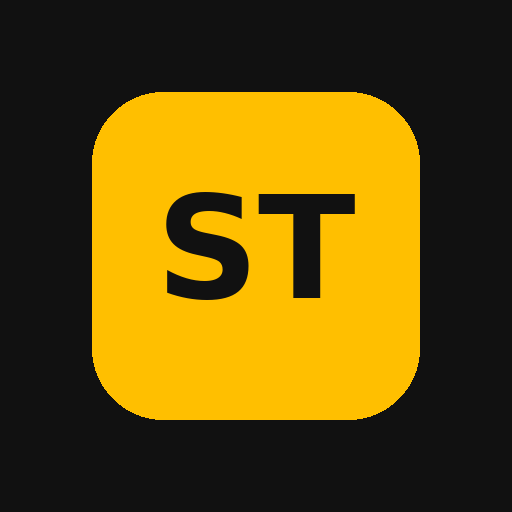
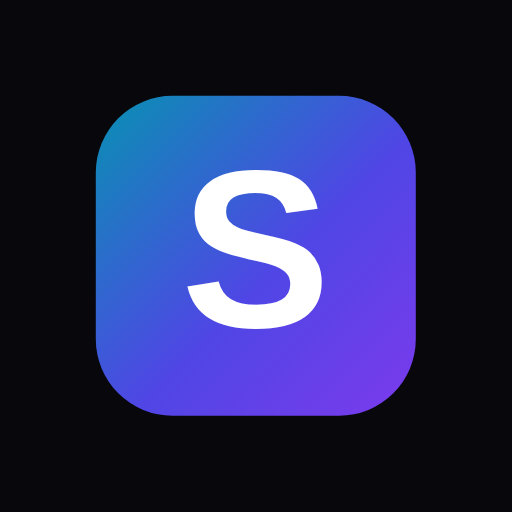
Nový vzhled podle náhledu (styly, ikony, cache v5)

diff --git a/styles.css b/styles.css
@@ -1,143 +1,251 @@
+/* SvezemeTě – tmavý vzhled (výchozí) podle návrhu, světlá varianta přes tlačítko Den.
+   Velké písmo a vysoký kontrast: řidič aplikaci používá v autě. */
 :root {
-  --bg: #fff;
-  --ink: #111;
-  --muted: #222;
-  --line: #111;
-  --amber: #ffbf00;
-  --amber-ink: #111;
-  --card: #fff6d0;
-  --bad: #7a0000;
-  --badbg: #ffd9d9;
-  --ok: #084d18;
-  --okbg: #d7f5df;
-  --wait: #5c3d00;
-  --waitbg: #fff1c2;
-  --soft: #f3f3f3;
-  --header: #111;
-  --headerink: #ffbf00;
-  --ghost: #fff;
-  --shadow: none;
+  --bg: #07070c;
+  --frame: #0b0b13;
+  --panel: #151522;
+  --panel2: #1d1d2e;
+  --line: #2e2e46;
+  --ink: #f5f6fb;
+  --muted: #b7bbd0;
+  --cyan: #22d3ee;
+  --blue: #6ea0ff;
+  --violet: #b69cff;
+  --grad: linear-gradient(90deg, #0891b2 0%, #4f46e5 55%, #7c3aed 100%);
+  --grad-soft: linear-gradient(90deg, #22d3ee, #8b5cf6);
+  --outline: rgba(139, 92, 246, 0.55);
+  --bad: #ffc9c9;
+  --badbg: #3a1016;
+  --badline: #ff6b7a;
+  --ok: #c9ffe0;
+  --okbg: #0c2f22;
+  --okline: #34d399;
+  --wait: #ffe7a6;
+  --waitbg: #33270b;
+  --waitline: #fbbf24;
+  --input: #0f0f1a;
+  --inputline: #3b3b5c;
+  color-scheme: dark;
 }
-body.night {
-  --bg: #000;
-  --ink: #fff8e1;
-  --muted: #ffe7a8;
-  --line: #ffbf00;
-  --amber: #ffbf00;
-  --amber-ink: #111;
-  --card: #1c1500;
-  --bad: #ffd0d0;
-  --badbg: #4a0000;
-  --ok: #c8ffd4;
-  --okbg: #063314;
-  --wait: #ffe08a;
-  --waitbg: #3a2a00;
-  --soft: #141414;
-  --header: #000;
-  --headerink: #ffbf00;
-  --ghost: #000;
+body.light {
+  --bg: #eef0f8;
+  --frame: #f7f8fd;
+  --panel: #ffffff;
+  --panel2: #f0f1f9;
+  --line: #c9cce0;
+  --ink: #0b0b14;
+  --muted: #383c52;
+  --cyan: #0e7490;
+  --blue: #1d4ed8;
+  --violet: #6d28d9;
+  --outline: rgba(109, 40, 217, 0.45);
+  --bad: #7a0010;
+  --badbg: #ffe1e4;
+  --okbg: #dcfce9;
+  --ok: #064e2b;
+  --waitbg: #fff3cd;
+  --wait: #5c3d00;
+  --input: #ffffff;
+  --inputline: #8d91ab;
+  color-scheme: light;
 }
 * { box-sizing: border-box; }
 html, body { margin: 0; padding: 0; }
 body {
-  font-family: "Segoe UI", "Noto Sans", Roboto, sans-serif;
-  font-size: 22px;
-  line-height: 1.35;
+  font-family: "Segoe UI", "Noto Sans", Roboto, system-ui, sans-serif;
+  font-size: 20px;
+  line-height: 1.4;
   color: var(--ink);
-  background: #1a1a1a;
+  background: var(--bg);
   -webkit-text-size-adjust: 100%;
 }
 button, input, select, textarea { font: inherit; color: inherit; touch-action: manipulation; }
-.app { max-width: 560px; margin: 0 auto; min-height: 100vh; background: var(--bg); }
+.app {
+  max-width: 560px; margin: 0 auto; min-height: 100vh; background: var(--frame);
+}
 .app.wide { max-width: 980px; }
+
+/* Hlavička: logo S v přechodu, název, tenká přechodová linka */
 header {
-  display: flex; flex-wrap: wrap; align-items: center; gap: 10px;
-  padding: 12px 16px; background: var(--header); color: var(--headerink);
-  border-bottom: 8px solid var(--amber); position: sticky; top: 0; z-index: 5;
+  display: flex; flex-wrap: nowrap; align-items: center; gap: 8px;
+  padding: 14px 12px 10px 16px; background: var(--frame);
 }
-.brand { display: flex; gap: 12px; align-items: center; flex: 1 1 220px; min-width: 0; }
+.brand { display: flex; gap: 10px; align-items: center; flex: 1 1 auto; min-width: 0; }
 .mark {
-  width: 56px; height: 56px; flex: none; border-radius: 14px; background: var(--amber); color: #111;
-  display: grid; place-items: center; font-weight: 900; font-size: 26px;
+  width: 48px; height: 48px; flex: none; border-radius: 14px; background: var(--grad); color: #fff;
+  display: grid; place-items: center; font-weight: 900; font-size: 28px; text-shadow: 0 1px 2px rgba(0,0,0,.35);
 }
-.nm { font-weight: 900; font-size: 28px; line-height: 1; letter-spacing: -0.4px; }
-.sub { color: #fff; font-size: 18px; margin-top: 4px; }
-body.night .sub { color: var(--amber); }
-.tools { display: flex; gap: 8px; flex: 1 1 160px; justify-content: flex-end; }
+.nm { font-weight: 900; font-size: 24px; line-height: 1; letter-spacing: -0.4px; color: var(--ink); white-space: nowrap; overflow: hidden; text-overflow: ellipsis; }
+.tools { display: flex; gap: 6px; justify-content: flex-end; flex: none; }
 .tool {
-  background: transparent; color: var(--headerink); border: 3px solid var(--amber);
-  border-radius: 12px; min-height: 52px; padding: 8px 14px; font-weight: 800; font-size: 20px;
+  background: var(--panel); color: var(--ink); border: 2px solid var(--line);
+  border-radius: 14px; min-height: 56px; min-width: 56px; padding: 6px 9px; font-weight: 800; font-size: 16px; cursor: pointer;
 }
-main { padding: 16px 16px 40px; }
-.gate { min-height: 100vh; margin: 0; display: grid; place-items: center; padding: 32px 20px; background: #111; color: #ffbf00; }
+@media (max-width: 360px) { .nm { font-size: 22px; } .mark { width: 42px; height: 42px; font-size: 24px; } }
+.rule { height: 3px; margin: 0 18px; border-radius: 3px; background: var(--grad-soft); }
+main { padding: 14px 18px 48px; }
+.mode {
+  margin: 6px 0 2px; font-size: 15px; font-weight: 800; letter-spacing: 1.6px; text-transform: uppercase; color: var(--muted);
+}
+.gate { min-height: 100vh; margin: 0; display: grid; place-items: center; padding: 32px 20px; background: var(--bg); color: var(--ink); }
 .gate p { margin: 0; font-size: 34px; font-weight: 900; line-height: 1.25; text-align: center; }
-h1 { font-size: 34px; line-height: 1.15; margin: 8px 0 12px; }
-h2 { font-size: 26px; margin: 22px 0 8px; }
+h1 { font-size: 36px; line-height: 1.12; margin: 4px 0 16px; font-weight: 900; letter-spacing: -0.5px; }
+h2 { font-size: 24px; margin: 24px 0 10px; font-weight: 850; }
 p { margin: 8px 0; }
-.banner, .alert { border: 3px solid var(--line); border-radius: 14px; padding: 12px 14px; margin: 12px 16px; font-weight: 700; }
-.banner { background: var(--amber); color: #111; margin-bottom: 0; }
-.alert { margin: 12px 0; }
-.alert.bad { background: var(--badbg); color: var(--bad); }
-.alert.ok { background: var(--okbg); color: var(--ok); }
-.alert.wait { background: var(--waitbg); color: var(--wait); }
+
+.banner { margin: 12px 18px 0; padding: 12px 14px; border-radius: 14px; font-weight: 700; font-size: 18px;
+  background: var(--waitbg); color: var(--wait); border: 2px solid var(--waitline); }
+.alert { border-radius: 14px; padding: 14px 16px; margin: 12px 0; font-weight: 700; border: 2px solid; border-left-width: 6px; }
+.alert.bad { background: var(--badbg); color: var(--bad); border-color: var(--badline); }
+.alert.ok { background: var(--okbg); color: var(--ok); border-color: var(--okline); }
+.alert.wait { background: var(--waitbg); color: var(--wait); border-color: var(--waitline); }
+
+/* Tlačítka */
 .btn, .card-btn, .key {
-  display: flex; align-items: center; justify-content: center; text-align: center;
-  width: 100%; min-height: 64px; margin: 10px 0; padding: 14px 16px;
-  border-radius: 16px; border: 3px solid var(--line); background: var(--amber); color: var(--amber-ink);
-  font-weight: 800; font-size: 24px; line-height: 1.2; cursor: pointer;
+  display: flex; align-items: center; justify-content: center; text-align: center; flex-direction: column;
+  width: 100%; min-height: 60px; margin: 12px 0; padding: 14px 18px;
+  border-radius: 18px; border: 0; background: var(--grad); color: #fff;
+  font-weight: 800; font-size: 22px; line-height: 1.2; cursor: pointer;
+  text-shadow: 0 1px 2px rgba(0, 0, 0, 0.35);
+  box-shadow: 0 6px 22px rgba(79, 70, 229, 0.28);
 }
-.btn.xl { min-height: 84px; font-size: 28px; }
-.btn.dark, .btn.stop { background: #111; color: #fff; border-color: #111; }
-body.night .btn.dark, body.night .btn.stop { background: #fff; color: #111; border-color: #fff; }
-.btn.go { background: #0b6b2a; color: #fff; border-color: #063; }
-.btn.ghost { background: var(--ghost); color: var(--ink); }
-.btn:disabled { background: #d0d0d0; color: #222; border-color: #555; cursor: not-allowed; }
-.card-btn { display: block; text-align: left; background: var(--card); font-size: 22px; }
-.card-btn strong, .card-btn span { display: block; }
-label { display: block; font-weight: 800; margin-top: 14px; }
+.btn.xl { min-height: 72px; font-size: 24px; }
+.btn.ghost {
+  background: transparent; color: var(--ink); border: 2px solid var(--line); box-shadow: none; text-shadow: none;
+}
+.btn.dark { background: var(--panel2); color: var(--ink); border: 2px solid var(--violet); box-shadow: none; text-shadow: none; }
+.btn.stop { background: #b4232f; color: #fff; box-shadow: none; }
+.btn.go { background: linear-gradient(90deg, #047857, #0891b2); }
+.btn:disabled { background: var(--panel2); color: var(--muted); border: 2px dashed var(--line); box-shadow: none; text-shadow: none; cursor: not-allowed; }
+.link { background: none; border: 0; padding: 8px 4px; min-height: 48px; color: var(--cyan); font-weight: 800; text-decoration: underline; cursor: pointer; }
+
+/* Datové karty s barevným proužkem vlevo */
+.card, .card-btn {
+  position: relative; display: block; text-align: left; margin: 12px 0; padding: 14px 16px 14px 22px;
+  background: var(--panel); color: var(--ink); border: 1px solid var(--line); border-radius: 18px;
+  box-shadow: none; text-shadow: none; overflow: hidden;
+}
+.card::before, .card-btn::before {
+  content: ""; position: absolute; left: 0; top: 0; bottom: 0; width: 6px; background: var(--cyan);
+}
+.c2::before { background: var(--blue); }
+.c3::before { background: var(--violet); }
+.lbl {
+  display: flex; justify-content: space-between; gap: 8px; font-size: 15px; font-weight: 800;
+  letter-spacing: 1.3px; text-transform: uppercase; color: var(--muted);
+}
+.lbl em { font-style: normal; color: var(--cyan); }
+.val { display: block; margin-top: 4px; font-size: 26px; font-weight: 900; line-height: 1.2; color: var(--cyan); word-break: break-word; }
+.c2 .val { color: var(--blue); }
+.c3 .val { color: var(--violet); }
+.val small { display: block; margin-top: 4px; font-size: 18px; font-weight: 700; color: var(--muted); }
+.card-btn { cursor: pointer; font-size: 20px; font-weight: 600; }
+.card-btn strong { display: block; font-size: 22px; font-weight: 850; margin: 2px 0; }
+.card-btn > span { display: block; }
+.accent { color: var(--cyan); font-weight: 800; }
+.c2 .accent { color: var(--blue); }
+.c3 .accent { color: var(--violet); }
+.card-btn .badge { margin-bottom: 6px; }
+.incard input { margin-top: 8px; }
+.incard .arrow { display: block; text-align: center; color: var(--muted); font-weight: 900; margin: 2px 0; }
+.formcard label { margin-top: 10px; }
+.sumgrid { display: grid; grid-template-columns: 1fr 1fr; gap: 0 10px; }
+.sumgrid .card { margin: 6px 0; }
+.sumgrid .val { font-size: 22px; }
+
+/* Formuláře */
+label { display: block; font-weight: 800; margin-top: 14px; font-size: 18px; }
 input, select, textarea {
-  width: 100%; margin-top: 6px; min-height: 60px; padding: 12px;
-  border: 3px solid var(--line); border-radius: 12px; background: var(--bg);
+  width: 100%; margin-top: 6px; min-height: 60px; padding: 12px 14px; font-size: 21px;
+  border: 2px solid var(--inputline); border-radius: 14px; background: var(--input); color: var(--ink);
 }
-.price-in { font-size: 40px; font-weight: 900; text-align: center; }
-.price { font-size: 64px; font-weight: 900; text-align: center; letter-spacing: -1px; margin: 8px 0; font-variant-numeric: tabular-nums; }
-.price.sm { font-size: 48px; }
-.route { font-size: 26px; font-weight: 800; text-align: center; }
-.routebox { display: grid; gap: 8px; margin: 12px 0; }
-.routebox div { background: var(--card); border: 3px solid var(--line); border-radius: 14px; padding: 10px 12px; }
-.routebox span { display: block; font-size: 18px; font-weight: 800; }
-.rz { display: inline-block; font-size: 36px; font-weight: 900; letter-spacing: 1px; background: var(--amber); color: #111; border: 4px solid #111; border-radius: 12px; padding: 4px 12px; }
-.kicker { text-align: center; font-weight: 800; margin-bottom: 0; }
+input::placeholder { color: var(--muted); opacity: 0.75; }
+input:focus { border-color: var(--cyan); outline: none; box-shadow: 0 0 0 3px rgba(34, 211, 238, 0.35); }
+input.light-in { background: #fff; color: #0b0b14; border-color: #fff; }
+.price-in { font-size: 40px; font-weight: 900; text-align: center; color: var(--blue); }
+.price { font-size: 68px; font-weight: 900; text-align: center; letter-spacing: -1px; margin: 4px 0; font-variant-numeric: tabular-nums;
+  color: var(--cyan); line-height: 1.05; }
+.price.sm { font-size: 52px; }
+.pricemeta, .termslink { text-align: center; color: var(--muted); font-weight: 700; }
+.pricemeta span, .termslink span { color: var(--line); margin: 0 6px; }
+.termslink { text-align: left; color: var(--cyan); }
+.route { font-size: 26px; font-weight: 850; text-align: center; margin: 6px 0; }
+.rz { display: inline-block; font-size: 24px; font-weight: 900; letter-spacing: 1px; background: #fff; color: #111;
+  border: 3px solid #1d4ed8; border-radius: 10px; padding: 2px 10px; }
 .hello { font-size: 26px; font-weight: 800; }
-.hint, .old { color: var(--muted); font-size: 20px; }
-.empty { background: var(--soft); border-radius: 14px; padding: 14px; }
-.badge { display: inline-block; padding: 6px 12px; border-radius: 999px; font-weight: 800; border: 3px solid var(--line); background: var(--soft); }
-.badge.ok { background: var(--okbg); color: var(--ok); }
-.badge.wait { background: var(--waitbg); color: var(--wait); }
-.badge.go { background: #d9ffe4; color: #064; }
-body.night .badge.go { background: #063; color: #d9ffe4; }
-.consent { display: flex; gap: 14px; align-items: flex-start; border: 3px solid var(--line); border-radius: 14px; padding: 14px; margin-top: 12px; background: var(--card); font-weight: 800; }
-.consent input { width: 40px; height: 40px; min-height: 40px; margin: 2px 0 0; flex: none; }
-.steps { display: flex; gap: 8px; margin-bottom: 8px; }
-.steps span { flex: 1; text-align: center; border: 3px solid var(--line); border-radius: 12px; padding: 6px 0; font-weight: 800; background: var(--soft); }
-.steps span.on { background: var(--amber); color: #111; }
-dl div { display: grid; grid-template-columns: 1fr; gap: 2px; padding: 8px 0; border-bottom: 2px solid var(--line); }
-dt { font-size: 18px; font-weight: 800; }
-dd { margin: 0; font-size: 24px; font-weight: 800; }
-.dots { display: flex; gap: 14px; justify-content: center; margin: 16px 0; }
-.dots span { width: 22px; height: 22px; border-radius: 50%; border: 3px solid var(--line); background: transparent; }
-.dots span.on { background: var(--amber); }
-.pad { display: grid; grid-template-columns: repeat(3, 1fr); gap: 10px; }
-.key { margin: 0; min-height: 72px; font-size: 32px; background: var(--soft); }
-.terms p { margin: 0 0 8px; }
-.terms h2 { margin-top: 16px; }
-.clock { font-size: 42px; font-weight: 900; text-align: center; font-variant-numeric: tabular-nums; }
+.hint, .old { color: var(--muted); font-size: 19px; }
+.old { font-weight: 700; }
+.empty { background: var(--panel); border: 1px dashed var(--line); border-radius: 16px; padding: 16px; color: var(--muted); }
+.badge { display: inline-block; padding: 6px 14px; border-radius: 999px; font-weight: 800; font-size: 16px; letter-spacing: 1px;
+  text-transform: uppercase; border: 2px solid var(--line); background: var(--panel2); color: var(--ink); }
+.badge.ok { background: var(--okbg); color: var(--ok); border-color: var(--okline); }
+.badge.wait { background: var(--waitbg); color: var(--wait); border-color: var(--waitline); }
+.badge.go { background: var(--okbg); color: var(--ok); border-color: var(--okline); }
+
+/* Informační box (dopravce, řidič, vozidlo) */
+.infobox { background: var(--panel); border: 1px solid var(--line); border-radius: 18px; padding: 6px 16px; margin: 14px 0; }
+.infobox > div { display: grid; grid-template-columns: 1fr; gap: 2px; padding: 10px 0; border-bottom: 1px solid var(--line); }
+.infobox > div:last-child { border-bottom: 0; }
+.infobox span, .infobox dt { font-size: 15px; font-weight: 800; letter-spacing: 1.2px; text-transform: uppercase; color: var(--muted); }
+.infobox strong, .infobox dd { margin: 0; font-size: 22px; font-weight: 800; }
+.infobox.mail { border-left: 6px solid var(--cyan); }
+.infobox.mail.bad { border-left-color: var(--badline); }
+.infobox.mail.wait { border-left-color: var(--waitline); }
+.infobox.mail strong { color: var(--cyan); word-break: break-all; }
+.infobox.mail p { margin: 0 0 10px; font-size: 18px; color: var(--muted); }
+dl { margin: 0; }
+
+/* Souhlasy */
+.consent { display: flex; gap: 14px; align-items: flex-start; border: 2px solid var(--line); border-radius: 16px; padding: 14px;
+  margin-top: 12px; background: var(--panel); font-weight: 750; font-size: 19px; cursor: pointer; }
+.consent input { width: 34px; height: 34px; min-height: 34px; margin: 2px 0 0; flex: none; accent-color: #7c3aed; }
+
+/* Volba platby */
+.paylist { display: grid; gap: 10px; margin: 8px 0; }
+.paygrid { display: grid; grid-template-columns: 1fr 1fr; gap: 10px; margin: 8px 0; }
+.payopt {
+  display: flex; align-items: center; gap: 14px; width: 100%; min-height: 64px; padding: 14px 16px; text-align: left;
+  background: var(--panel); color: var(--ink); border: 2px solid var(--line); border-radius: 16px; cursor: pointer;
+}
+.payopt strong { display: block; font-size: 21px; font-weight: 850; }
+.payopt small { display: block; font-size: 17px; color: var(--muted); font-weight: 600; margin-top: 2px; }
+.payopt .dot { width: 26px; height: 26px; flex: none; border-radius: 50%; border: 3px solid var(--muted); }
+.payopt.on { border-color: var(--cyan); box-shadow: 0 0 0 2px var(--cyan) inset; }
+.payopt.on .dot { border-color: var(--cyan); background: radial-gradient(circle, var(--cyan) 45%, transparent 50%); }
+.payopt.sm { justify-content: flex-start; min-height: 68px; }
+
+/* Rozbalovací doklady v registraci */
+.doc { border: 1px solid var(--line); border-radius: 16px; background: var(--panel); margin: 10px 0; }
+.doc summary { list-style: none; display: flex; justify-content: space-between; align-items: center; gap: 10px;
+  min-height: 60px; padding: 12px 16px; cursor: pointer; font-weight: 850; font-size: 20px; color: var(--violet); }
+.doc summary::-webkit-details-marker { display: none; }
+.doc summary b { font-size: 30px; line-height: 1; transition: transform .15s; }
+.doc[open] summary b { transform: rotate(45deg); }
+.docin { padding: 0 16px 14px; }
+
+/* Kroky registrace */
+.steps { display: grid; grid-template-columns: repeat(4, 1fr); gap: 8px; margin: 6px 0 12px; }
+.steps span { height: 8px; border-radius: 8px; background: var(--line); }
+.steps span.on { background: var(--grad-soft); }
+
+/* PIN */
+.dots { display: flex; gap: 16px; justify-content: center; margin: 18px 0; }
+.dots span { width: 24px; height: 24px; border-radius: 50%; border: 3px solid var(--violet); background: transparent; }
+.dots span.on { background: var(--grad-soft); border-color: transparent; }
+.pad { display: grid; grid-template-columns: repeat(3, 1fr); gap: 12px; }
+.key { margin: 0; min-height: 76px; font-size: 34px; background: var(--panel); color: var(--ink); border: 2px solid var(--line); box-shadow: none; text-shadow: none; }
+
+.terms p { margin: 0 0 8px; color: var(--ink); }
+.terms h2 { margin-top: 16px; font-size: 21px; }
+.clock { font-size: 30px !important; font-weight: 900 !important; color: var(--ink) !important; font-variant-numeric: tabular-nums; }
 .row2 { display: grid; grid-template-columns: 1fr 1fr; gap: 10px; }
-.sum { background: var(--card); border: 3px solid var(--line); border-radius: 14px; padding: 10px 12px; margin: 8px 0; }
-.eet { border: 3px dashed var(--line); border-radius: 14px; padding: 12px; margin-top: 12px; }
-.eet strong { font-size: 28px; letter-spacing: 1px; }
-:focus-visible { outline: 4px solid var(--amber); outline-offset: 2px; }
-@media (max-width: 600px) {
-  body { background: var(--bg); }
-  .app { max-width: none; }
+.row2 .btn { font-size: 19px; }
+.eet { border: 2px dashed var(--violet); border-radius: 16px; padding: 12px 14px; margin-top: 12px; }
+.eet strong { font-size: 26px; letter-spacing: 1px; color: var(--violet); }
+:focus-visible { outline: 4px solid var(--cyan); outline-offset: 2px; }
+
+/* Na velké obrazovce rámeček telefonu s fialovou linkou */
+@media (min-width: 601px) {
+  .app { margin: 24px auto; min-height: calc(100vh - 48px); border: 2px solid var(--outline); border-radius: 36px; overflow: hidden; }
+  header { border-radius: 36px 36px 0 0; }
 }

diff --git a/index.html b/index.html
@@ -3,7 +3,7 @@
 <head>
   <meta charset="utf-8">
   <meta name="viewport" content="width=device-width, initial-scale=1, viewport-fit=cover">
-  <meta name="theme-color" content="#111111">
+  <meta name="theme-color" content="#07070c">
   <meta name="description" content="SvezemeTě – elektronická objednávka taxislužby pro samostatné řidiče.">
   <meta name="apple-mobile-web-app-capable" content="yes">
   <meta name="apple-mobile-web-app-title" content="SvezemeTě">

diff --git a/sw.js b/sw.js
@@ -1,5 +1,5 @@
 /* Service worker. Všechny cesty jsou relativní ke skriptu, takže platí i v podsložce (např. /svezemete/). */
-const CACHE = "svezemete-v4";
+const CACHE = "svezemete-v5";
 const SCOPE_URL = new URL("./", self.location.href);
 const ASSETS = [
   "./index.html",
